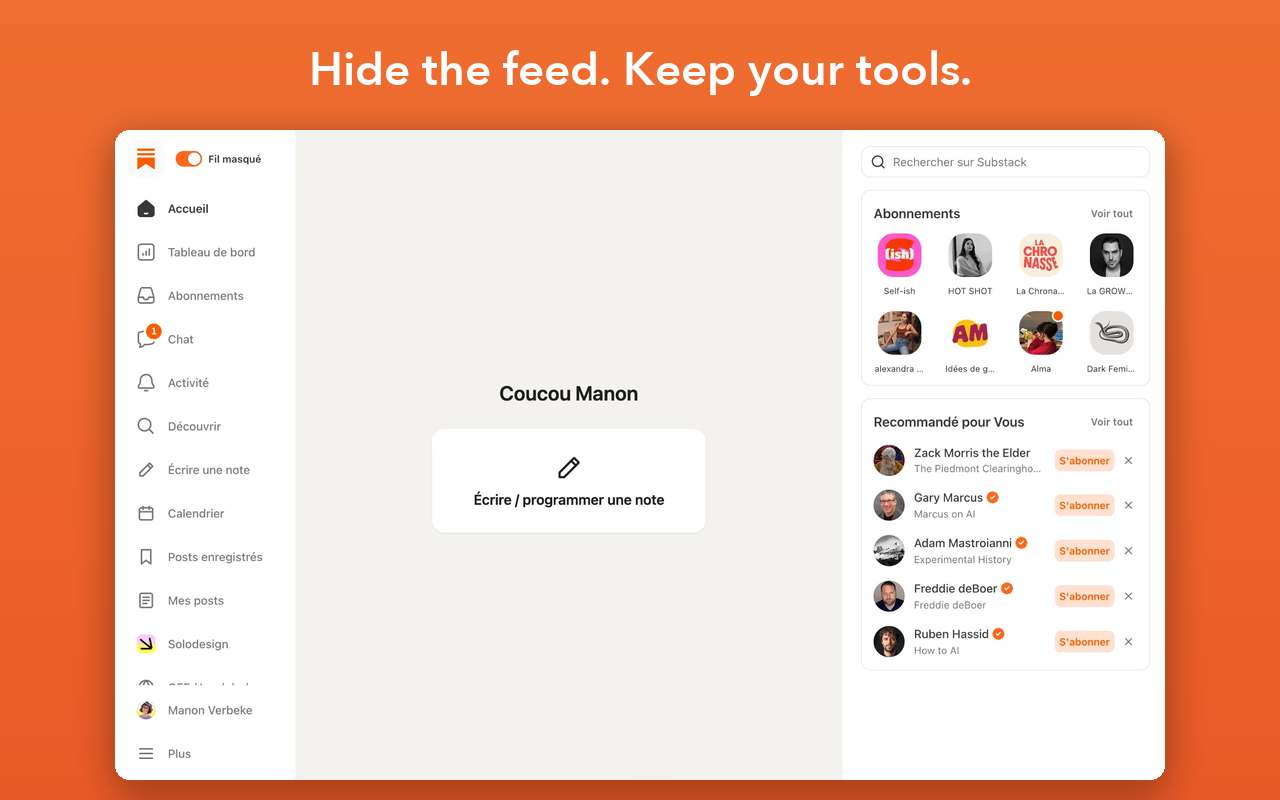
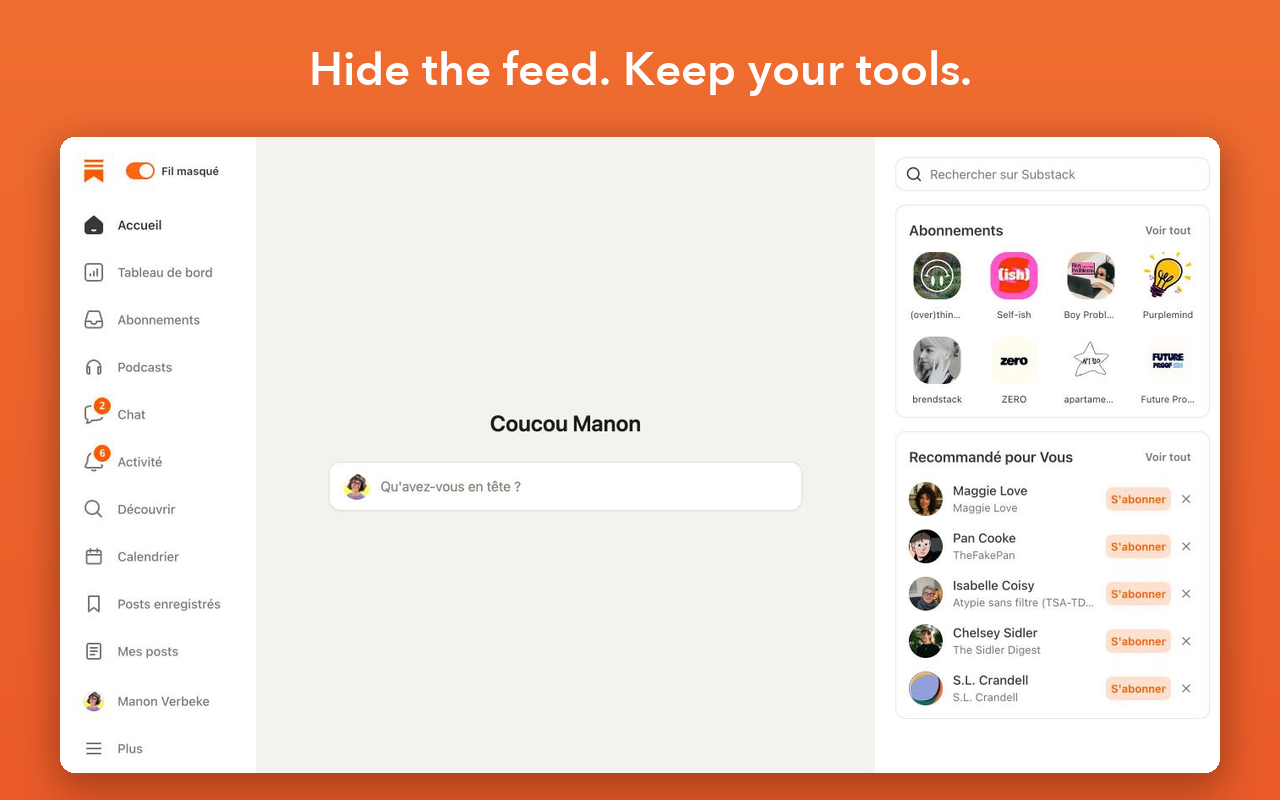
Quiet Substack 1.4.0 : corrections et visuels du store
- Zone de texte de l'éditeur en pleine largeur (icônes et Brouillons hors du flux)
- « Poster » n'est plus coupé quand un panneau est ouvert sur un écran étroit
- Accueil (fil masqué) en mode sombre
- Les 5 visuels du Chrome Web Store refaits avec la nouvelle interface

Changed region(s): [[0.0312, 0.1562, 0.9688, 1.0], [0.25, 0.4688, 0.5312, 0.6562], [0.8438, 0.5, 0.875, 0.5312]]

diff --git a/notes.css b/notes.css
@@ -82,6 +82,17 @@ html.snw-split.snw-side-open [role="dialog"][class*="composerModal-"] [class*="t
   gap: 8px !important;
 }
 
+/* Icônes un peu plus étroites : sur un écran de ~1250px, « Poster » était coupé */
+html.snw-split.snw-side-open [role="dialog"][class*="composerModal-"] [class*="track-"] > [class*="view-"]:first-child .pc-paddingX-20.pc-paddingBottom-20 .pc-gap-4[class*="flex-grow-"] {
+  gap: 0 !important;
+}
+
+html.snw-split.snw-side-open [role="dialog"][class*="composerModal-"] [class*="track-"] > [class*="view-"]:first-child .pc-paddingX-20.pc-paddingBottom-20 .pc-gap-4[class*="flex-grow-"] button {
+  width: 36px !important;
+  min-width: 36px !important;
+  padding: 0 !important;
+}
+
 /* Rien d'ouvert à droite : l'éditeur garde une largeur normale */
 html.snw-split:not(.snw-side-open) {
   --snw-dialog-w: min(640px, calc(100vw - var(--snw-planning-w) - 3 * var(--snw-gap) - 32px));
@@ -92,6 +103,22 @@ html.snw-split:not(.snw-side-open) [role="dialog"][class*="composerModal-"] [cla
 }
 
 /* Icônes des panneaux, en haut de l'éditeur à gauche de « Brouillons » */
+.snw-head-row {
+  position: relative !important;
+}
+
+.snw-head-row > .snw-drafts {
+  position: absolute !important;
+  top: 0;
+  right: 0;
+}
+
+.snw-head-row > .snw-panels {
+  position: absolute;
+  top: 0;
+  right: 85px;
+}
+
 .snw-panels {
   display: flex;
   flex: none;

diff --git a/feed.css b/feed.css
@@ -198,3 +198,37 @@ html.nfe-compact #nfe-toggle {
 html.nfe-compact #nfe-toggle .nfe-toggle-text {
   display: none;
 }
+
+/* ---------- Mode sombre de Substack ---------- */
+
+html.dark-mode #nfe-overlay {
+  background: #1c1d1f;
+}
+
+html.dark-mode #nfe-overlay .nfe-quote {
+  color: #ececec;
+}
+
+html.dark-mode #nfe-overlay .nfe-compose {
+  border-color: rgba(255, 255, 255, 0.1);
+  background: var(--color-bg-secondary, #232525);
+  color: #8a8a8a;
+  box-shadow: none;
+}
+
+html.dark-mode #nfe-overlay .nfe-compose:hover {
+  border-color: rgba(255, 255, 255, 0.2);
+}
+
+html.dark-mode #nfe-overlay .nfe-avatar {
+  background: #2e2f31;
+}
+
+html.dark-mode.nfe-writing,
+html.dark-mode.nfe-writing body {
+  background: #1c1d1f !important;
+}
+
+html.dark-mode #nfe-toggle:hover {
+  background: rgba(255, 255, 255, 0.07);
+}

diff --git a/notes.js b/notes.js
@@ -548,6 +548,14 @@ function attachPanelButtons(dialog) {
     group.appendChild(button);
   }
   drafts.parentElement.insertBefore(group, drafts);
+  // Les icônes et « Brouillons » sont posés en haut à droite, hors du flux,
+  // pour que la zone de texte prenne toute la largeur. Les icônes se calent
+  // à gauche de « Brouillons », dont la largeur change selon la langue.
+  drafts.parentElement.classList.add("snw-head-row");
+  drafts.classList.add("snw-drafts");
+  new ResizeObserver(() => {
+    if (drafts.offsetWidth) group.style.right = `${drafts.offsetWidth + 6}px`;
+  }).observe(drafts);
 }
 
 // Ouvre le panneau demandé, passe d'un panneau à l'autre, ou referme si
